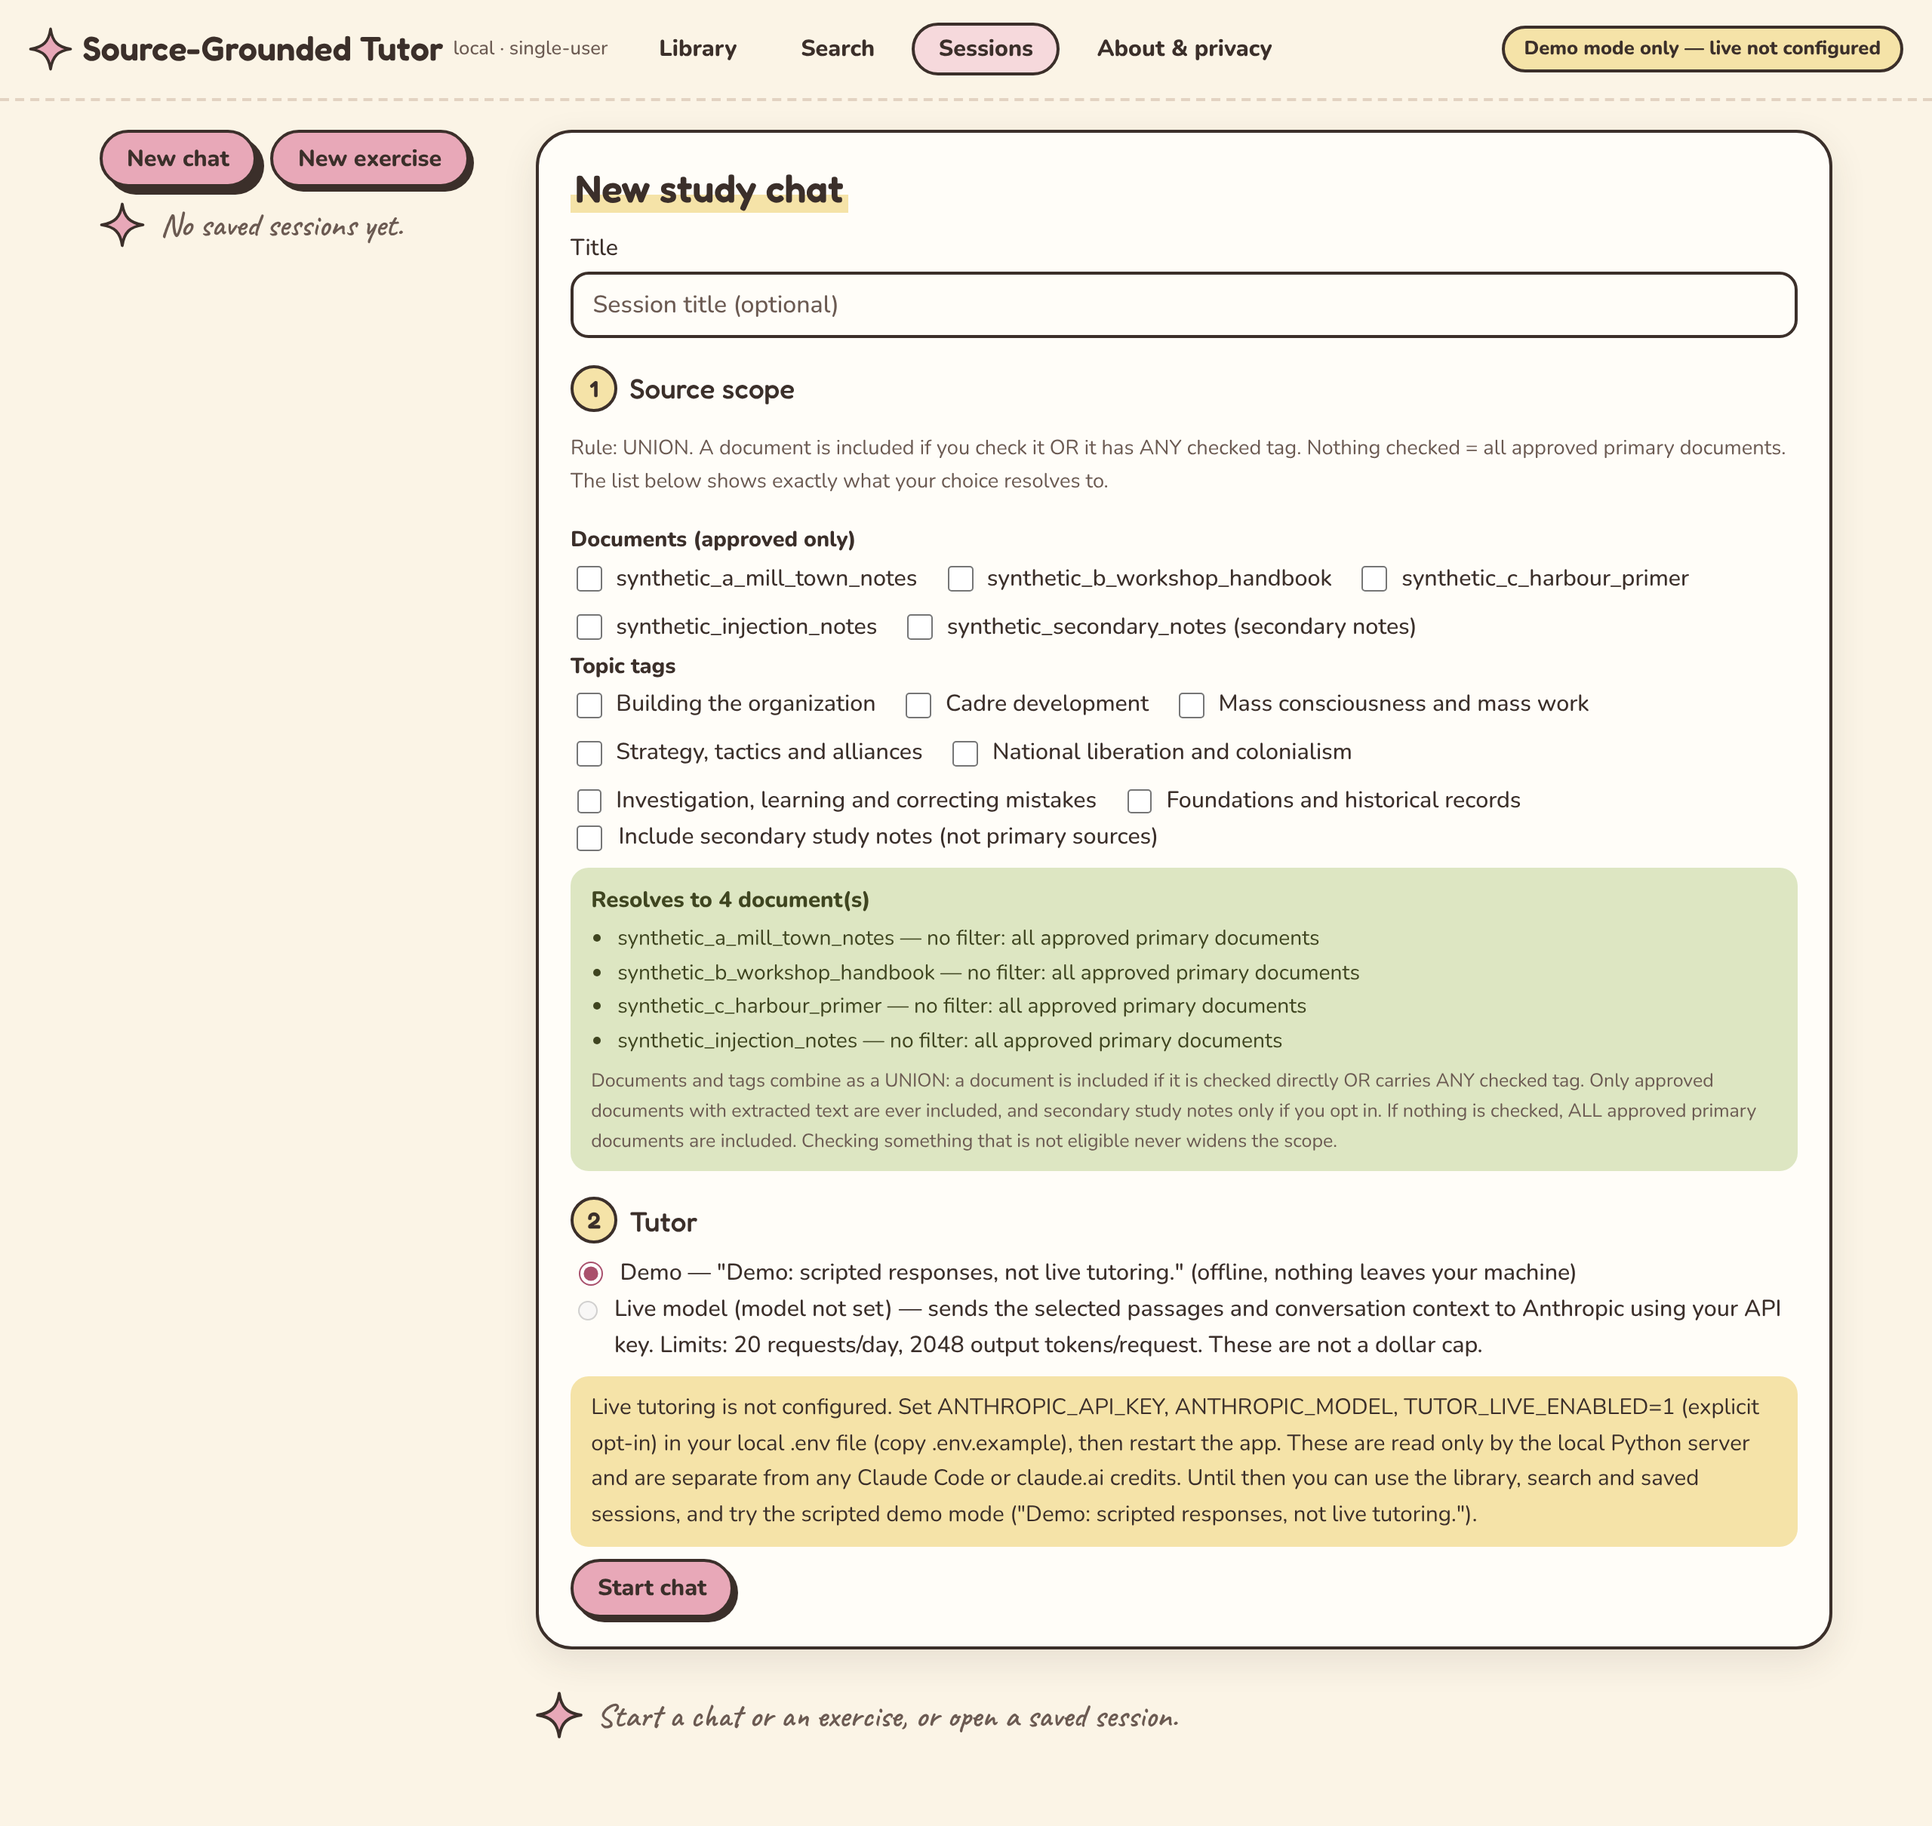
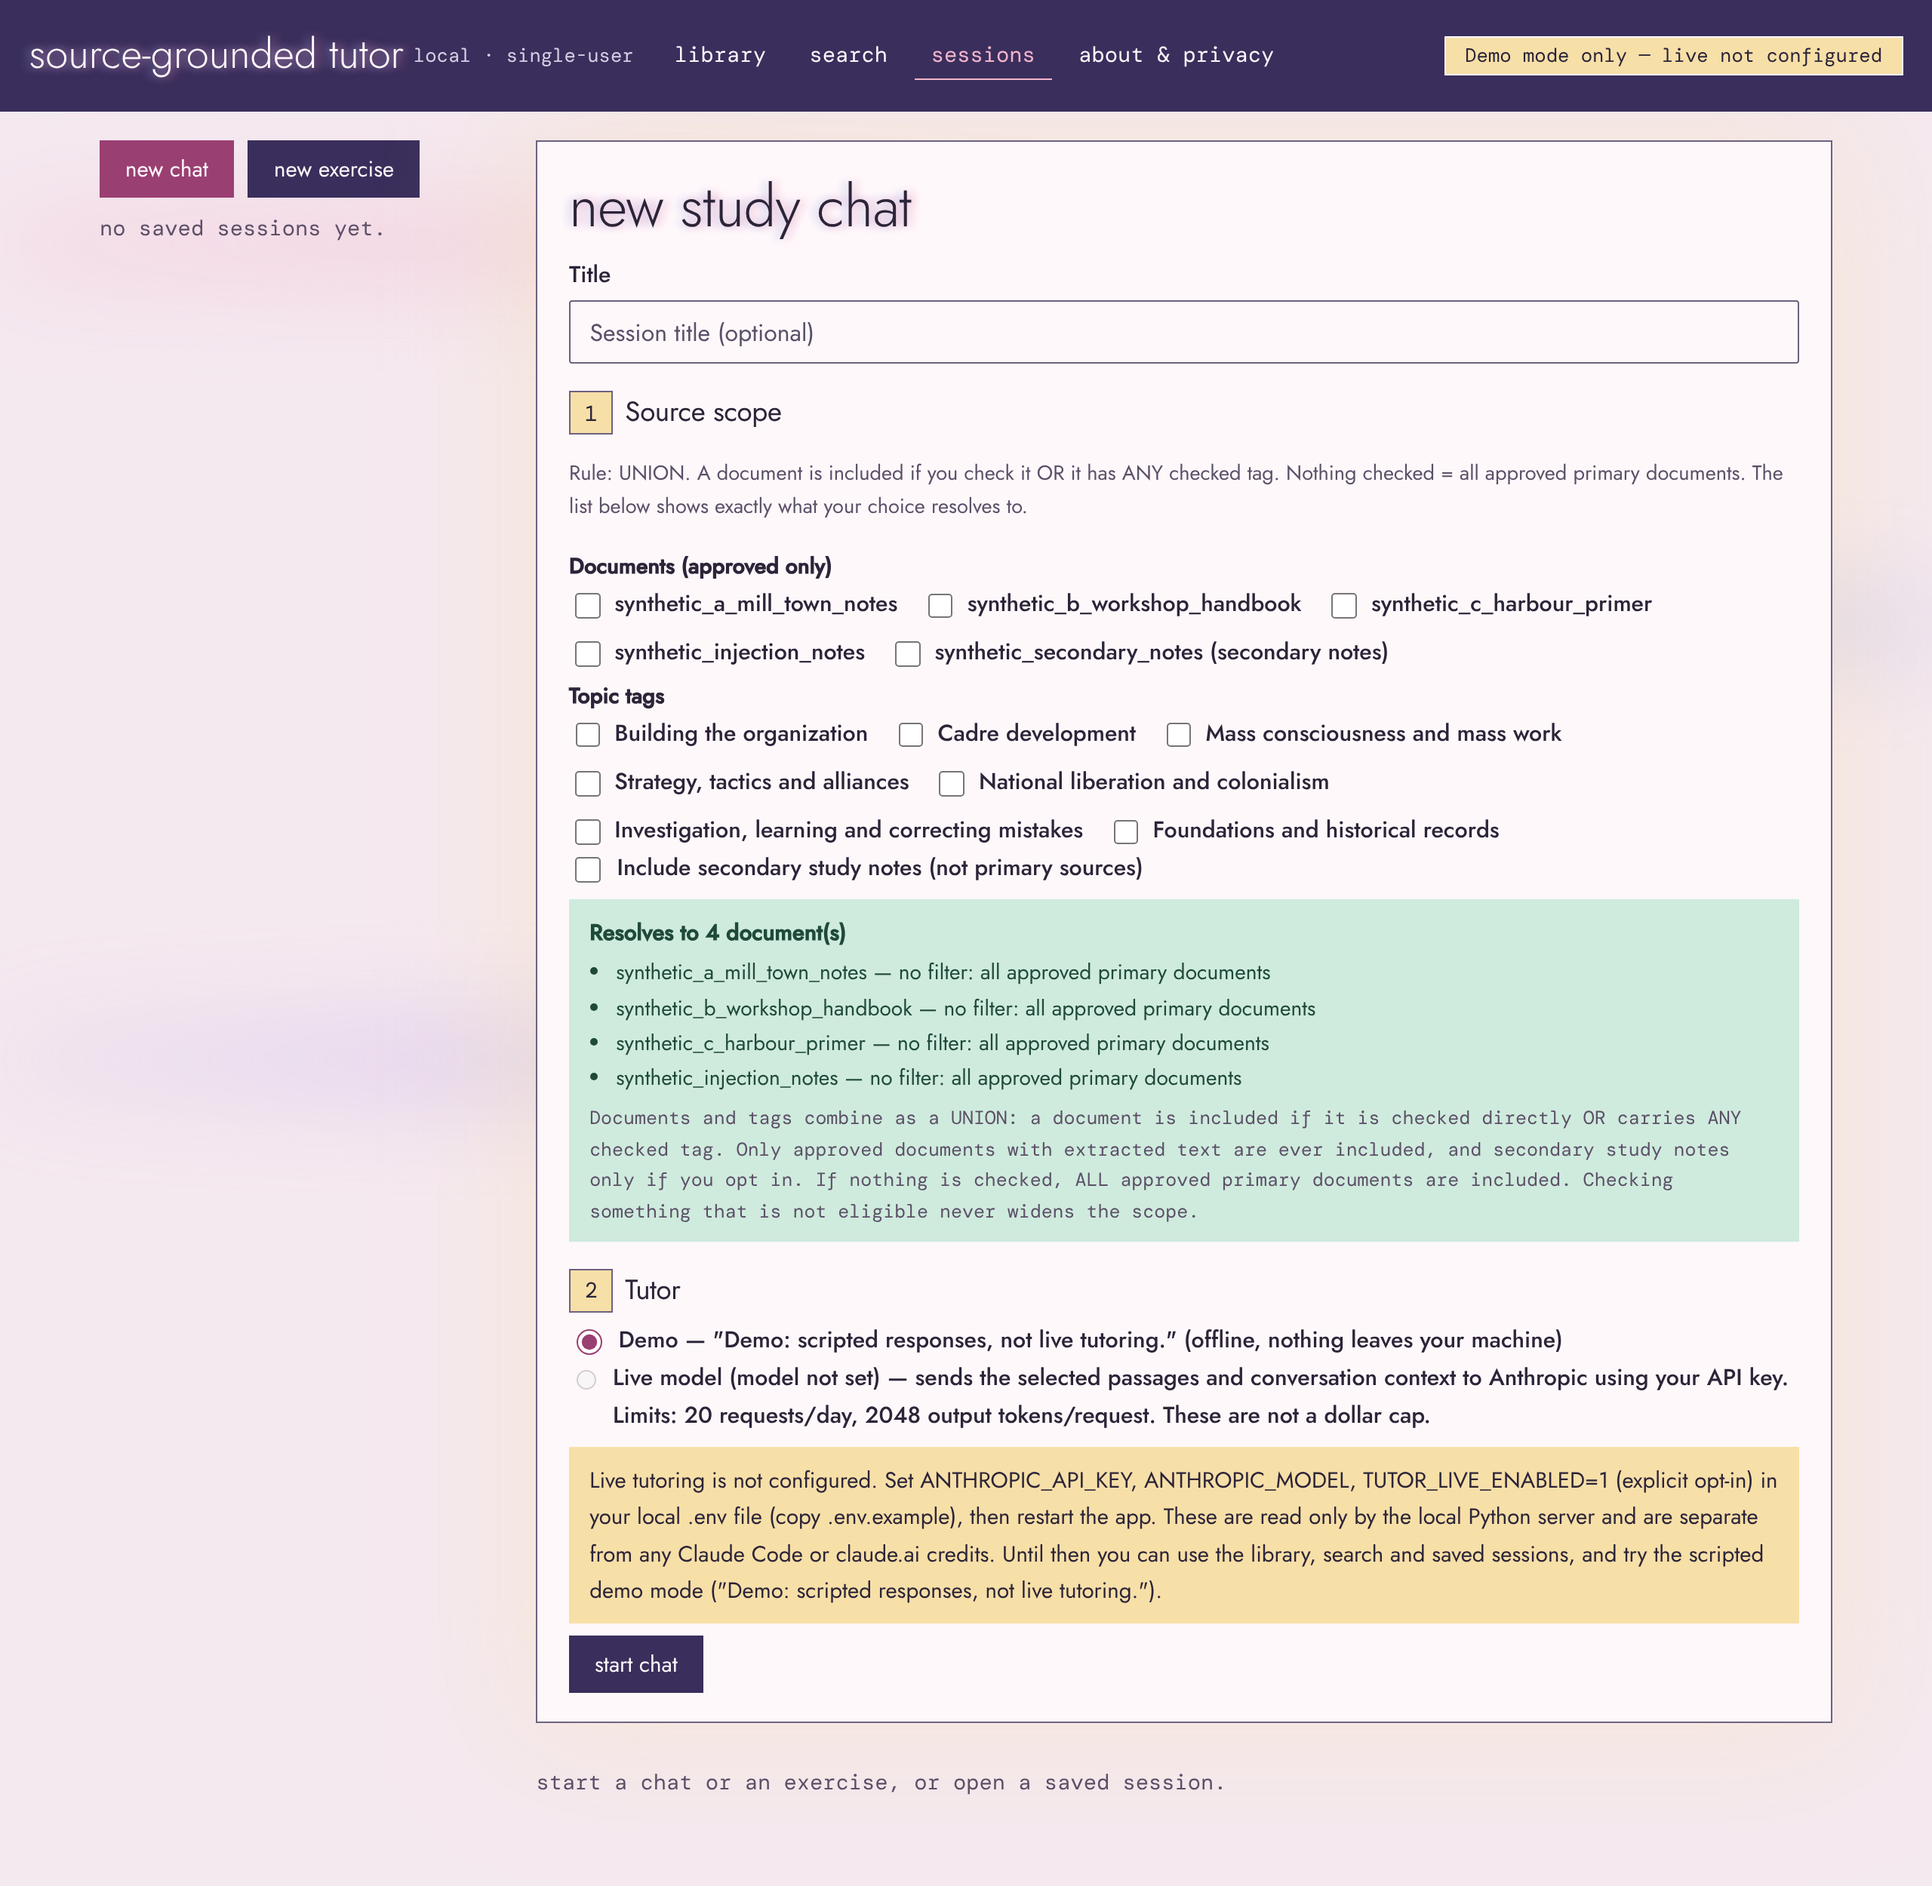
Ethereal revision: design docs, contrast table, screenshots
Claude-Session: https://claude.ai/code/session_01NKNx3FHyydo9MQarXkhfPh

diff --git a/docs/DESIGN.md b/docs/DESIGN.md
@@ -1,57 +1,56 @@
-# Visual design: Sugar Doodle direction
+# Visual design: Ethereal direction (design-revision branch)
 
-**Provenance.** The primary reference is the "Sugar Doodle Examples" design artifact (a shop landing page plus its Sugar Doodle token set). I read its source and tokens; I did **not** see it rendered. The earlier handmade/Pinterest direction was itself inferred, not a verified preference. Nothing here claims to match Jasmien's taste: it is a reversible visual pass, and the app is still in demo mode.
+**Provenance.** Source: the "Ethereal" Design System artifact (README + tokens + cover preview; read as source, not seen rendered). It replaces the earlier Sugar Doodle pass. The direction is a stated preference relayed through another session, not something I could verify with the owner; the app is still demo mode.
 
-## What was taken from the reference, and what was not
-Taken: cream paper page (#FBF4E6) with paper-white surfaces, warm ink (#3B2F2A) used for text *and* 2px outlines, pill buttons and nav chips, 24px card radius, solid "sticker" offset shadow on primary buttons, pastel fills (peony, blush, butter, lilac, sky, matcha), the four-point sparkle motif, marker-highlight under headings, Fredoka (headings) / Nunito (body) / Caveat (short empty-state notes only).
-Deliberately **not** taken: shop/cart/newsletter/product UI, tilted cards, twinkle animation, scalloped dividers, remote Google Fonts. Sticker shadows are limited to primary/approve buttons, the active session and the exercise panel, never behind long text. Fonts are bundled locally in `app/static/fonts/` (SIL OFL licence included); the app makes no remote font requests.
+## Taken from Ethereal
+cotton-haze page (#F5E9F0) and pearl surfaces, ink #2C2438, Jost 300 display + Jost 400 body + DM Mono for meta/nav/labels (bundled locally in `app/static/fonts`, SIL OFL licences included, no remote requests), square corners (2px inputs), 1px hairline/outline controls, one heavy twilight header band, soft horizontal pastel smears behind the page, chromatic ghost on large headings, candy-wine links, baby-pink selection, mint for approve/ok, butter-glow passage highlight.
+
+## Adapted for a reading tool (deviations)
+- **Lowercase is interface-only** (nav, buttons, headings, badges). Passages, quotes, answers, document titles, citations, chips with titles, and the required disclosure wording ("Demo: scripted responses, not live tutoring.", "citation checks passed", scope notices) keep their original case.
+- **No grain, no drifting/blur-breathing motion, no blurred images**: nothing textured or moving behind long text; smears sit behind opaque panels only. Reduced-motion is respected (nothing animates).
+- No sparkles/icons (the previous star motif was removed, per the Ethereal "avoid" list).
+- Dark mode is **not part of Ethereal**; it is my derivation (deep violet ground, pearl ink) and is contrast-checked below.
+- The passage highlight is ink on butter-glow over a pearl panel (the README warns against butter-glow text on haze; this pairing is measured).
 
 ## Where to change things
-- **Tokens (colours, fonts, radii, shadows):** the marked block at the top of `app/static/style.css` (light `:root`; dark in `@media (prefers-color-scheme: dark)`).
-- **Sparkle:** `app/static/star.svg` (theme-aware inside the file), used via the `.star` class in the brand and empty states.
-- **Contrast:** `python scripts/check_contrast.py [--markdown]` recomputes the table below.
+Tokens: marked block at the top of `app/static/style.css` (overrides for this direction are at the end of the file). Contrast: `python scripts/check_contrast.py [--markdown]`. Screenshots: `python scripts/make_screenshots.py` (real app, synthetic fixtures, demo provider, light+dark, 1280 and 390px, asserts no horizontal scroll) → `docs/design/screenshots/`.
 
-## Layout changes in this pass (CSS plus two tiny markup edits)
-- Conversation: bubbles with outlines, user messages blush, answer blocks keep their coloured left bars and labels; passages/answers capped at 68ch.
-- Passage inspection: on screens ≥1100px the passage dialog is a right-hand drawer (conversation stays visible); on narrow screens it is a centred dialog. It is a **modal** passage drawer, not a side-by-side interactive workspace: the page behind is `inert`, focus enters the drawer, stays inside, and returns to the opening control (e.g. the citation chip) on close.
-- New session: the two form sections are numbered (1 Source scope, 2 Tutor) with the same controls; nothing removed.
-- Library/history: same outlined cards, pastel badges and pills.
-- **Not delivered:** a persistent in-page source panel, library search/filter, or any new workflow.
+## Functionality retained
+Same markup and ids; passage view remains a modal drawer on ≥1100px (page behind is inert, focus trap, Escape, focus restored; covered by `tests/e2e/test_dialog_and_scope.py`). Not delivered: persistent source panel, library search, new workflows.
 
 ## Measured contrast (WCAG 2.x; light / dark)
 | Pairing | Target | Light | Dark |
 |---|---|---|---|
-| Body text on page (`ink` on `bg`) | 4.5:1 | 11.80 | 14.22 |
-| Body text on reading surface (`ink` on `panel`) | 4.5:1 | 12.70 | 12.68 |
-| Muted text on page (`muted` on `bg`) | 4.5:1 | 5.98 | 8.88 |
-| Muted text on reading surface (`muted` on `panel`) | 4.5:1 | 6.44 | 7.91 |
-| Primary button text on peony (`btn-ink` on `btn`) | 4.5:1 | 6.60 | 6.60 |
-| Approve button text on matcha (`leaf-ink` on `leaf`) | 4.5:1 | 7.15 | 7.75 |
-| Olive text on page (`leaf-text` on `bg`) | 4.5:1 | 5.59 | 10.87 |
-| Passage highlight / step number text (`hl-ink` on `hl`) | 4.5:1 | 10.11 | 10.11 |
-| Ink on butter (warning, question, passage target) (`ink` on `butter`) | 4.5:1 | 10.11 | 7.32 |
-| Ink on sky (cite chip) (`ink` on `sky`) | 4.5:1 | 9.40 | 9.38 |
-| Ink on lilac (tag chip, cite hover) (`ink` on `lilac`) | 4.5:1 | 7.32 | 7.95 |
-| Link peony-deep on surface (`accent` on `panel`) | 4.5:1 | 5.10 | 7.40 |
-| Link peony-deep on page (`accent` on `bg`) | 4.5:1 | 4.74 | 8.30 |
-| Text on blush (user message, selected, passage) (`blush-ink` on `blush`) | 4.5:1 | 9.76 | 9.48 |
-| Body text on blush (nav hover) (`ink` on `blush`) | 4.5:1 | 9.76 | 10.29 |
-| Warning notice (`warn-ink` on `warn-bg`) | 4.5:1 | 10.11 | 8.25 |
-| Error / withheld notice (`bad-ink` on `bad-bg`) | 4.5:1 | 6.39 | 7.97 |
-| OK notice / live chip (`ok-ink` on `ok-bg`) | 4.5:1 | 7.76 | 8.75 |
-| Label: quotation (`quote` on `panel`) | 4.5:1 | 5.10 | 7.40 |
-| Label: interpretation (`interp` on `panel`) | 4.5:1 | 6.95 | 8.32 |
-| Label: synthesis (`synth` on `panel`) | 4.5:1 | 6.56 | 8.33 |
-| Label: fiction (`fiction` on `panel`) | 4.5:1 | 6.12 | 8.11 |
-| Label: app coaching (`coach` on `panel`) | 4.5:1 | 6.44 | 7.91 |
-| Label: limits (`limits` on `panel`) | 4.5:1 | 7.46 | 7.24 |
-| Input / button boundary vs surface (UI 3:1) (`line-strong` on `panel`) | 3.0:1 | 12.70 | 9.25 |
-| Input boundary vs page (UI 3:1) (`line-strong` on `bg`) | 3.0:1 | 11.80 | 10.38 |
-| Focus ring vs page (UI 3:1) (`focus` on `bg`) | 3.0:1 | 11.80 | 14.22 |
-| Focus ring vs surface (UI 3:1) (`focus` on `panel`) | 3.0:1 | 12.70 | 12.68 |
-| Outline vs page (UI 3:1) (`line-strong` on `bg`) | 3.0:1 | 11.80 | 10.38 |
+| Body text on page (`ink` on `bg`) | 4.5:1 | 12.56 | 14.49 |
+| Body text on reading surface (`ink` on `panel`) | 4.5:1 | 14.17 | 12.76 |
+| Muted text on page (`muted` on `bg`) | 4.5:1 | 6.35 | 10.08 |
+| Muted text on reading surface (`muted` on `panel`) | 4.5:1 | 7.16 | 8.88 |
+| Primary button text on twilight / baby-pink (`btn-ink` on `btn`) | 4.5:1 | 11.63 | 8.65 |
+| Approve button text on mint (`leaf-ink` on `leaf`) | 4.5:1 | 10.95 | 9.10 |
+| Olive text on page (`leaf-text` on `bg`) | 4.5:1 | 5.27 | 9.99 |
+| Passage highlight / step number text (`hl-ink` on `hl`) | 4.5:1 | 11.35 | 11.35 |
+| Ink on butter (warning, question, passage target) (`ink` on `butter`) | 4.5:1 | 11.35 | 7.25 |
+| Ink on sky (cite chip) (`ink` on `sky`) | 4.5:1 | 11.34 | 10.99 |
+| Ink on lilac (tag chip, cite hover) (`ink` on `lilac`) | 4.5:1 | 7.44 | 7.79 |
+| Pearl text on twilight (header band) (`pearl` on `twilight`) | 4.5:1 | 11.63 | 17.65 |
+| Baby-pink on twilight (active nav) (`star` on `twilight`) | 4.5:1 | 7.10 | 10.77 |
+| Link candy-wine on surface (`accent` on `panel`) | 4.5:1 | 6.03 | 8.78 |
+| Link candy-wine on page (`accent` on `bg`) | 4.5:1 | 5.35 | 9.97 |
+| Text on blush (user message, selected, passage) (`blush-ink` on `blush`) | 4.5:1 | 8.65 | 8.96 |
+| Body text on blush (nav hover) (`ink` on `blush`) | 4.5:1 | 8.65 | 7.95 |
+| Warning notice (`warn-ink` on `warn-bg`) | 4.5:1 | 11.35 | 8.02 |
+| Error / withheld notice (`bad-ink` on `bad-bg`) | 4.5:1 | 7.03 | 7.91 |
+| OK notice / live chip (`ok-ink` on `ok-bg`) | 4.5:1 | 7.90 | 8.66 |
+| Label: quotation (`quote` on `panel`) | 4.5:1 | 6.03 | 8.78 |
+| Label: interpretation (`interp` on `panel`) | 4.5:1 | 5.94 | 8.80 |
+| Label: synthesis (`synth` on `panel`) | 4.5:1 | 5.99 | 9.34 |
+| Label: fiction (`fiction` on `panel`) | 4.5:1 | 5.95 | 8.17 |
+| Label: app coaching (`coach` on `panel`) | 4.5:1 | 7.16 | 8.88 |
+| Label: limits (`limits` on `panel`) | 4.5:1 | 6.75 | 7.99 |
+| Input / button boundary vs surface (UI 3:1) (`line-strong` on `panel`) | 3.0:1 | 5.39 | 5.86 |
+| Input boundary vs page (UI 3:1) (`line-strong` on `bg`) | 3.0:1 | 4.78 | 6.65 |
+| Focus ring vs page (UI 3:1) (`focus` on `bg`) | 3.0:1 | 12.56 | 14.49 |
+| Focus ring vs surface (UI 3:1) (`focus` on `panel`) | 3.0:1 | 14.17 | 12.76 |
+| Outline vs page (UI 3:1) (`line-strong` on `bg`) | 3.0:1 | 4.78 | 6.65 |
 
-Only the listed pairs are measured; this does not establish full accessibility, and there was no screen-reader testing. Peony (#E8A8B8) buttons are identified by their 2px ink outline plus text, not by fill contrast. Dark mode is re-derived (dark brown paper, cream ink).
-
-## Verification
-`python scripts/make_screenshots.py` drives the real app (demo provider, SYNTHETIC fixtures approved, temp data dir) at 1280px and 390px, deviceScaleFactor 2, light and dark, and asserts no horizontal scroll. Output in `docs/design/screenshots/`. Not verified: other browsers/OSes, real documents, the owner's taste, live tutoring.
+Only listed pairs are measured; this does not establish full accessibility, and there was no screen-reader testing.
